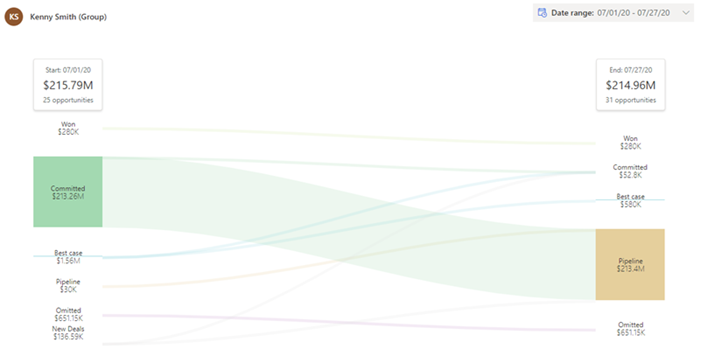
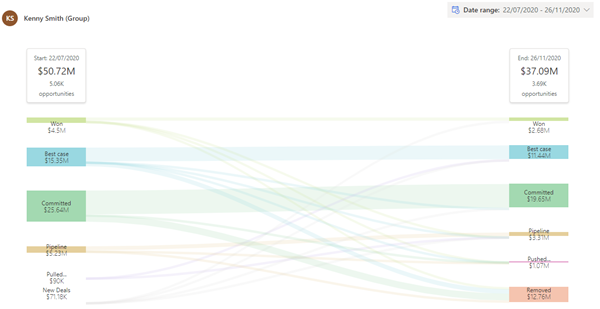
snapshot update

diff --git a/ai-docs/sales/analyze-deals-flow-between-snapshots.md b/ai-docs/sales/analyze-deals-flow-between-snapshots.md
@@ -41,12 +41,26 @@ Review the following prerequisite before you start using deals flow analysis:
     > ![Deal flow chart between dates](media/predictive-forecasting-deal-flow-chart-between-dates.png "Deal flow chart between dates")    	
  	
     - The topmost stack in the column displays the date with aggregated opportunity amount, and the number of opportunities that are influencing the aggregated amount.	
-    -	The other columns on the stack display the forecast categories and the aggregated opportunity amount for that snapshot in the order defined when the forecast was configured.	
+    
+    - The other columns on the stack display the forecast categories and the aggregated opportunity amount for that snapshot in the order defined when the forecast was configured.	
 
-    -	If any underlying opportunities are added to the forecast while the snapshot of end date is being taken and these opportunities aren't available in the snapshot of start date, a **New Deals** forecast category is added to the bottom of the start date column stack.	
+    - New opportunities that are present in the end date snapshot and not available in start date snapshot are classified as **New deals** category under the start date snapshot column stack.    
+        The opportunities that are added to the end date snapshot due to ownership change (with in forecast) or date change (with in forecast), are not part of this category rather part of another category known as [**Pushed out**](#pushed-out) and [**Pulled in**](#pulled-in) categories. 	
+    
+    - <a name="pulled-in"></a>The opportunities that are added to the end date snapshot due to ownership change (with in forecast) or date change (with in forecast), are classified under **Pulled in** category under the bottom of the start date snapshot.   
+    
+    - <a name="pushed-out"></a>The opportunities that are added to the start date snapshot due to ownership change (with in forecast) or date change (with in forecast), are classified under **Pushed out** category under the bottom of the end date snapshot.   
+        Let's look at the following examples:    
+        - **Date change**: Few opportunities of Kenny Smith are moved from the 22 July (Q3) to 26 November (Q4) and these opportunities are shown under **Pushed out** category for Q3 and **Pulled in** category for Q4.     
 
-    -	If any underlying opportunities are deleted from the forecast after the snapshot of start date is taken and these opportunities aren't available in the snapshot of end date, a **Slipped Deals** forecast category is added to bottom of the end date column stack.	
+            > [!div class="mx-imgBorder"]	
+            > ![Example for pulled in and pushed out](media/predictive-forecasting-deal-flow-chart-kenny-smith.png "Example for pulled in and pushed out")    
 
+            1. **Pulled in**: Opportunities date is moved from Q3 to Q4.   
+            2. **Pushed out**: Owner moved out of the forecast hierarchy.     
+        
+        - **Ownership change**: Dustin Ochs has two opportunities and are transferred to Amber Rodriguez. The transferred opportunities appear under the Pushed out category for Dustin Ochs and **Pulled in** category for Amber Rodriguez.   
+	
 5.	To view the summary and flow of a forecast category:	
 
     -	Hover over a forecast category in the stack, a summary of the category is displayed, including the forecast category with snapshot date, the aggregated budget amount, and the number of opportunities that are influencing the aggregated amount. Also, the flow is highlighted to show how the opportunities are trending between the snapshots.	
@@ -68,7 +82,7 @@ You can identify whether the selected flow is for a team or an individual by loo
 
 -	If the heading name contains only **Username**, you're looking at an individual user's deals flow.	
 
-The deals flow of other users that you can see depends on the sales hierarchy defined for you. To learn more, see [Forecasts and sales hierarchy](https://docs.microsoft.com/dynamics365/sales-enterprise/view-forecasts#forecasts-and-sales-hierarchy).	
+The deals flow of other users that you can see depend on the sales hierarchy defined for you. To learn more, see [Forecasts and sales hierarchy](https://docs.microsoft.com/dynamics365/sales-enterprise/view-forecasts#forecasts-and-sales-hierarchy).	
 
 
 ### See also	
